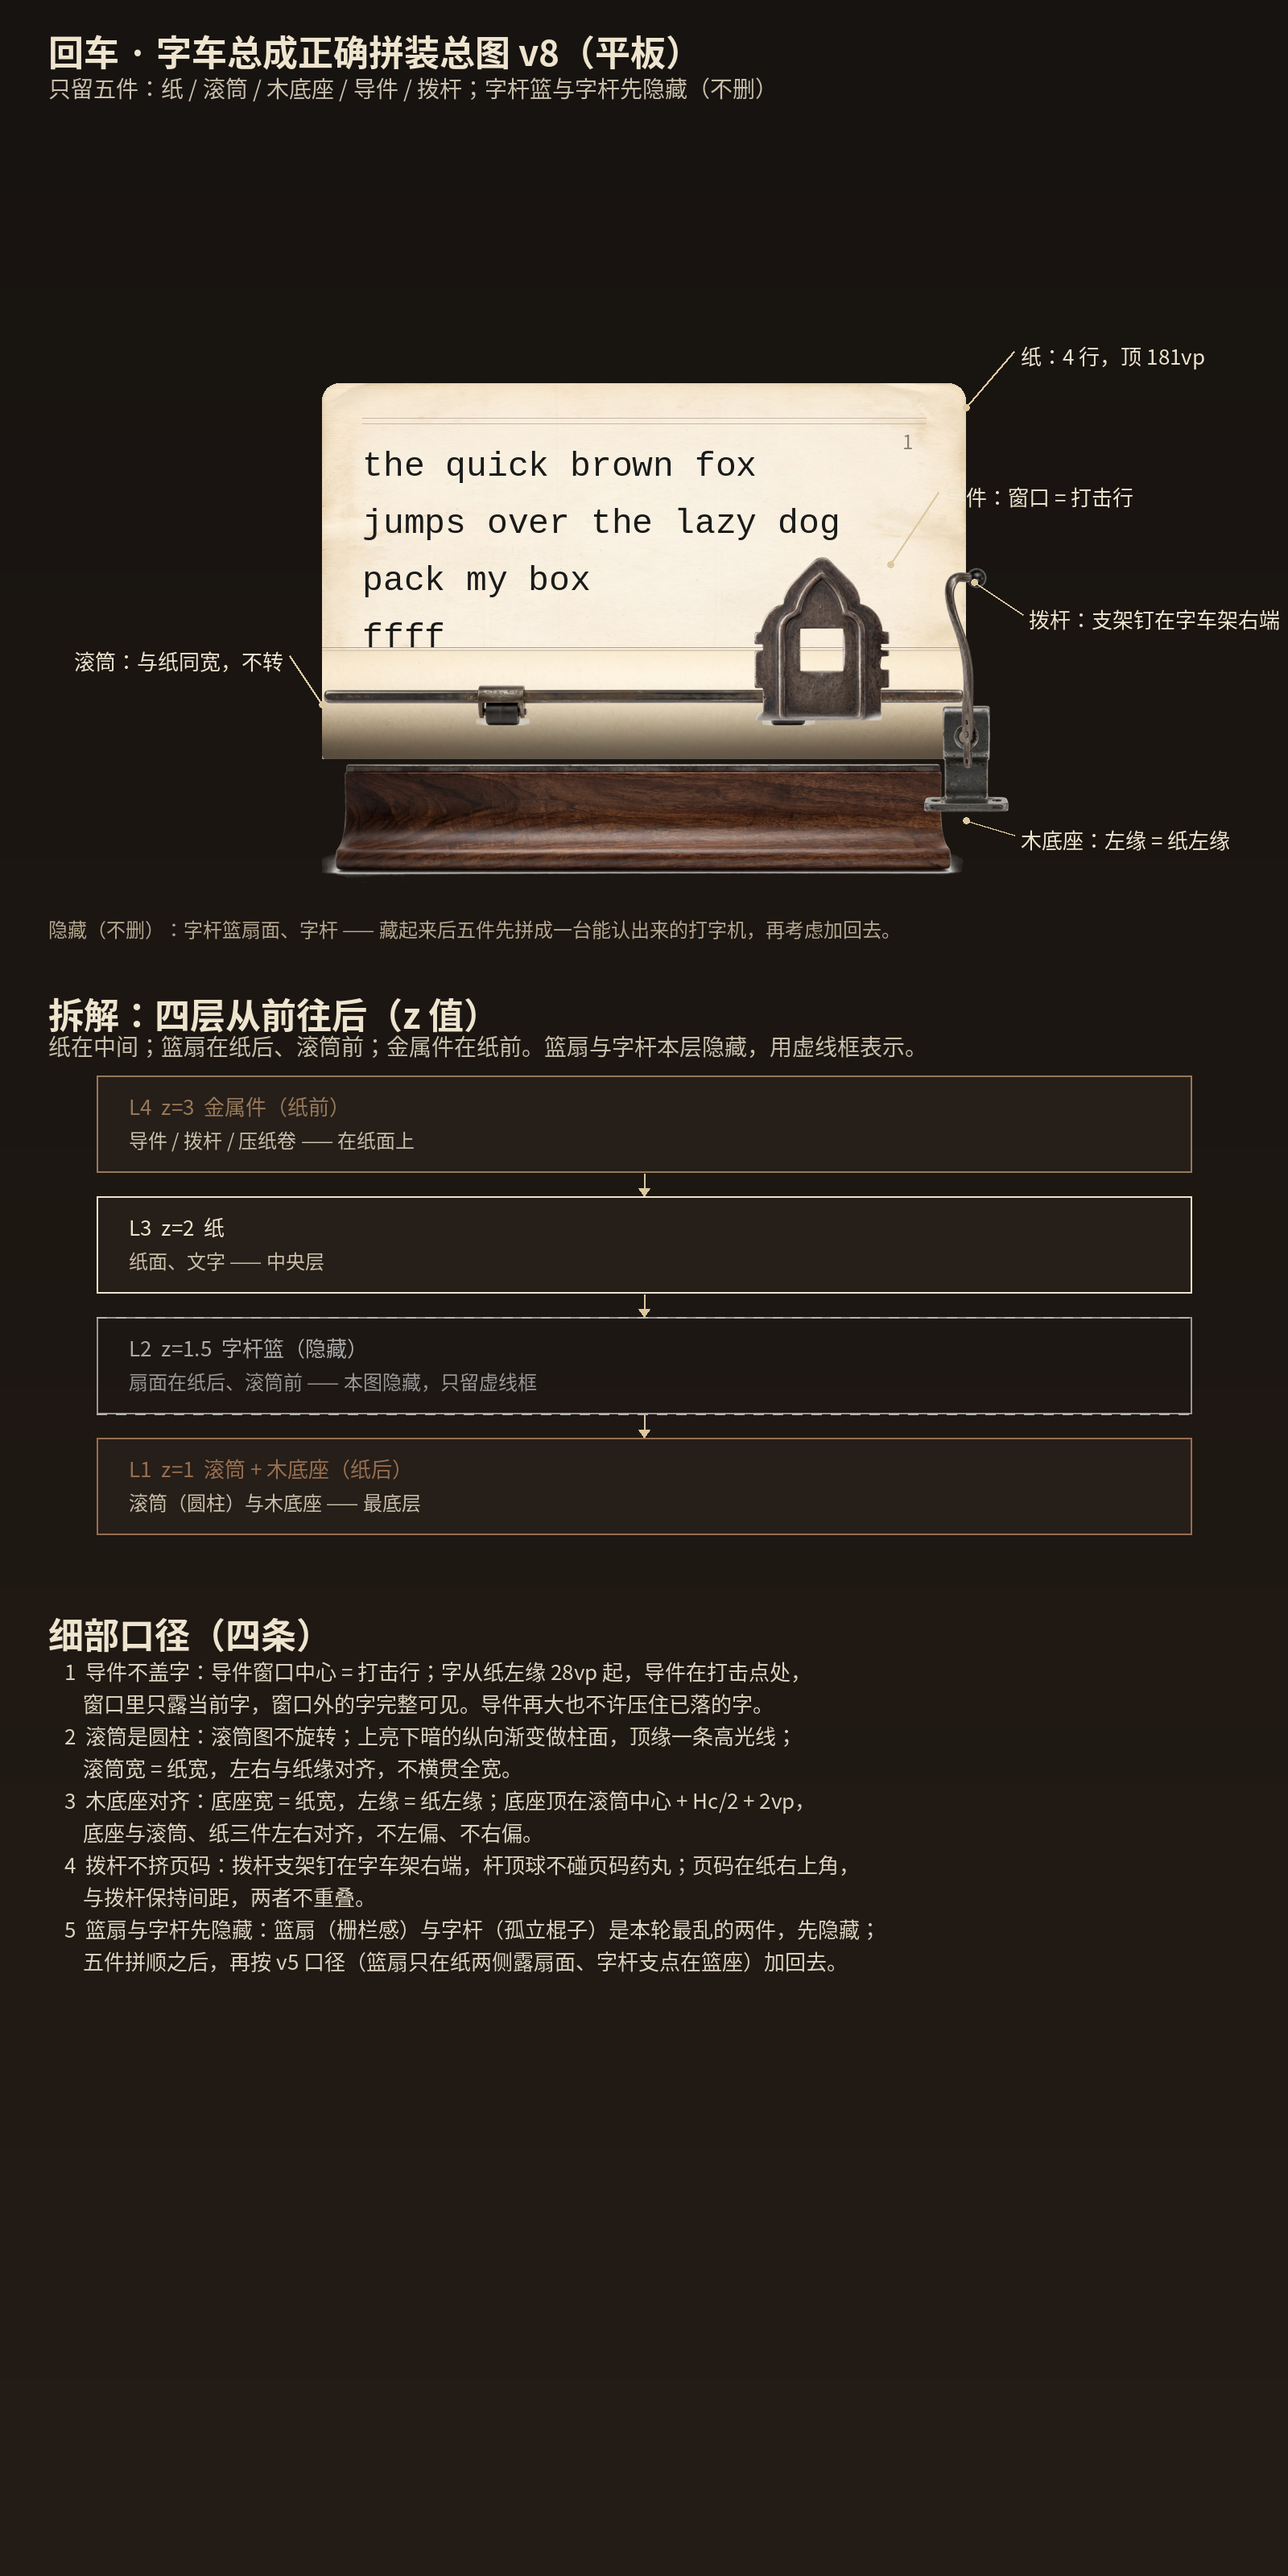
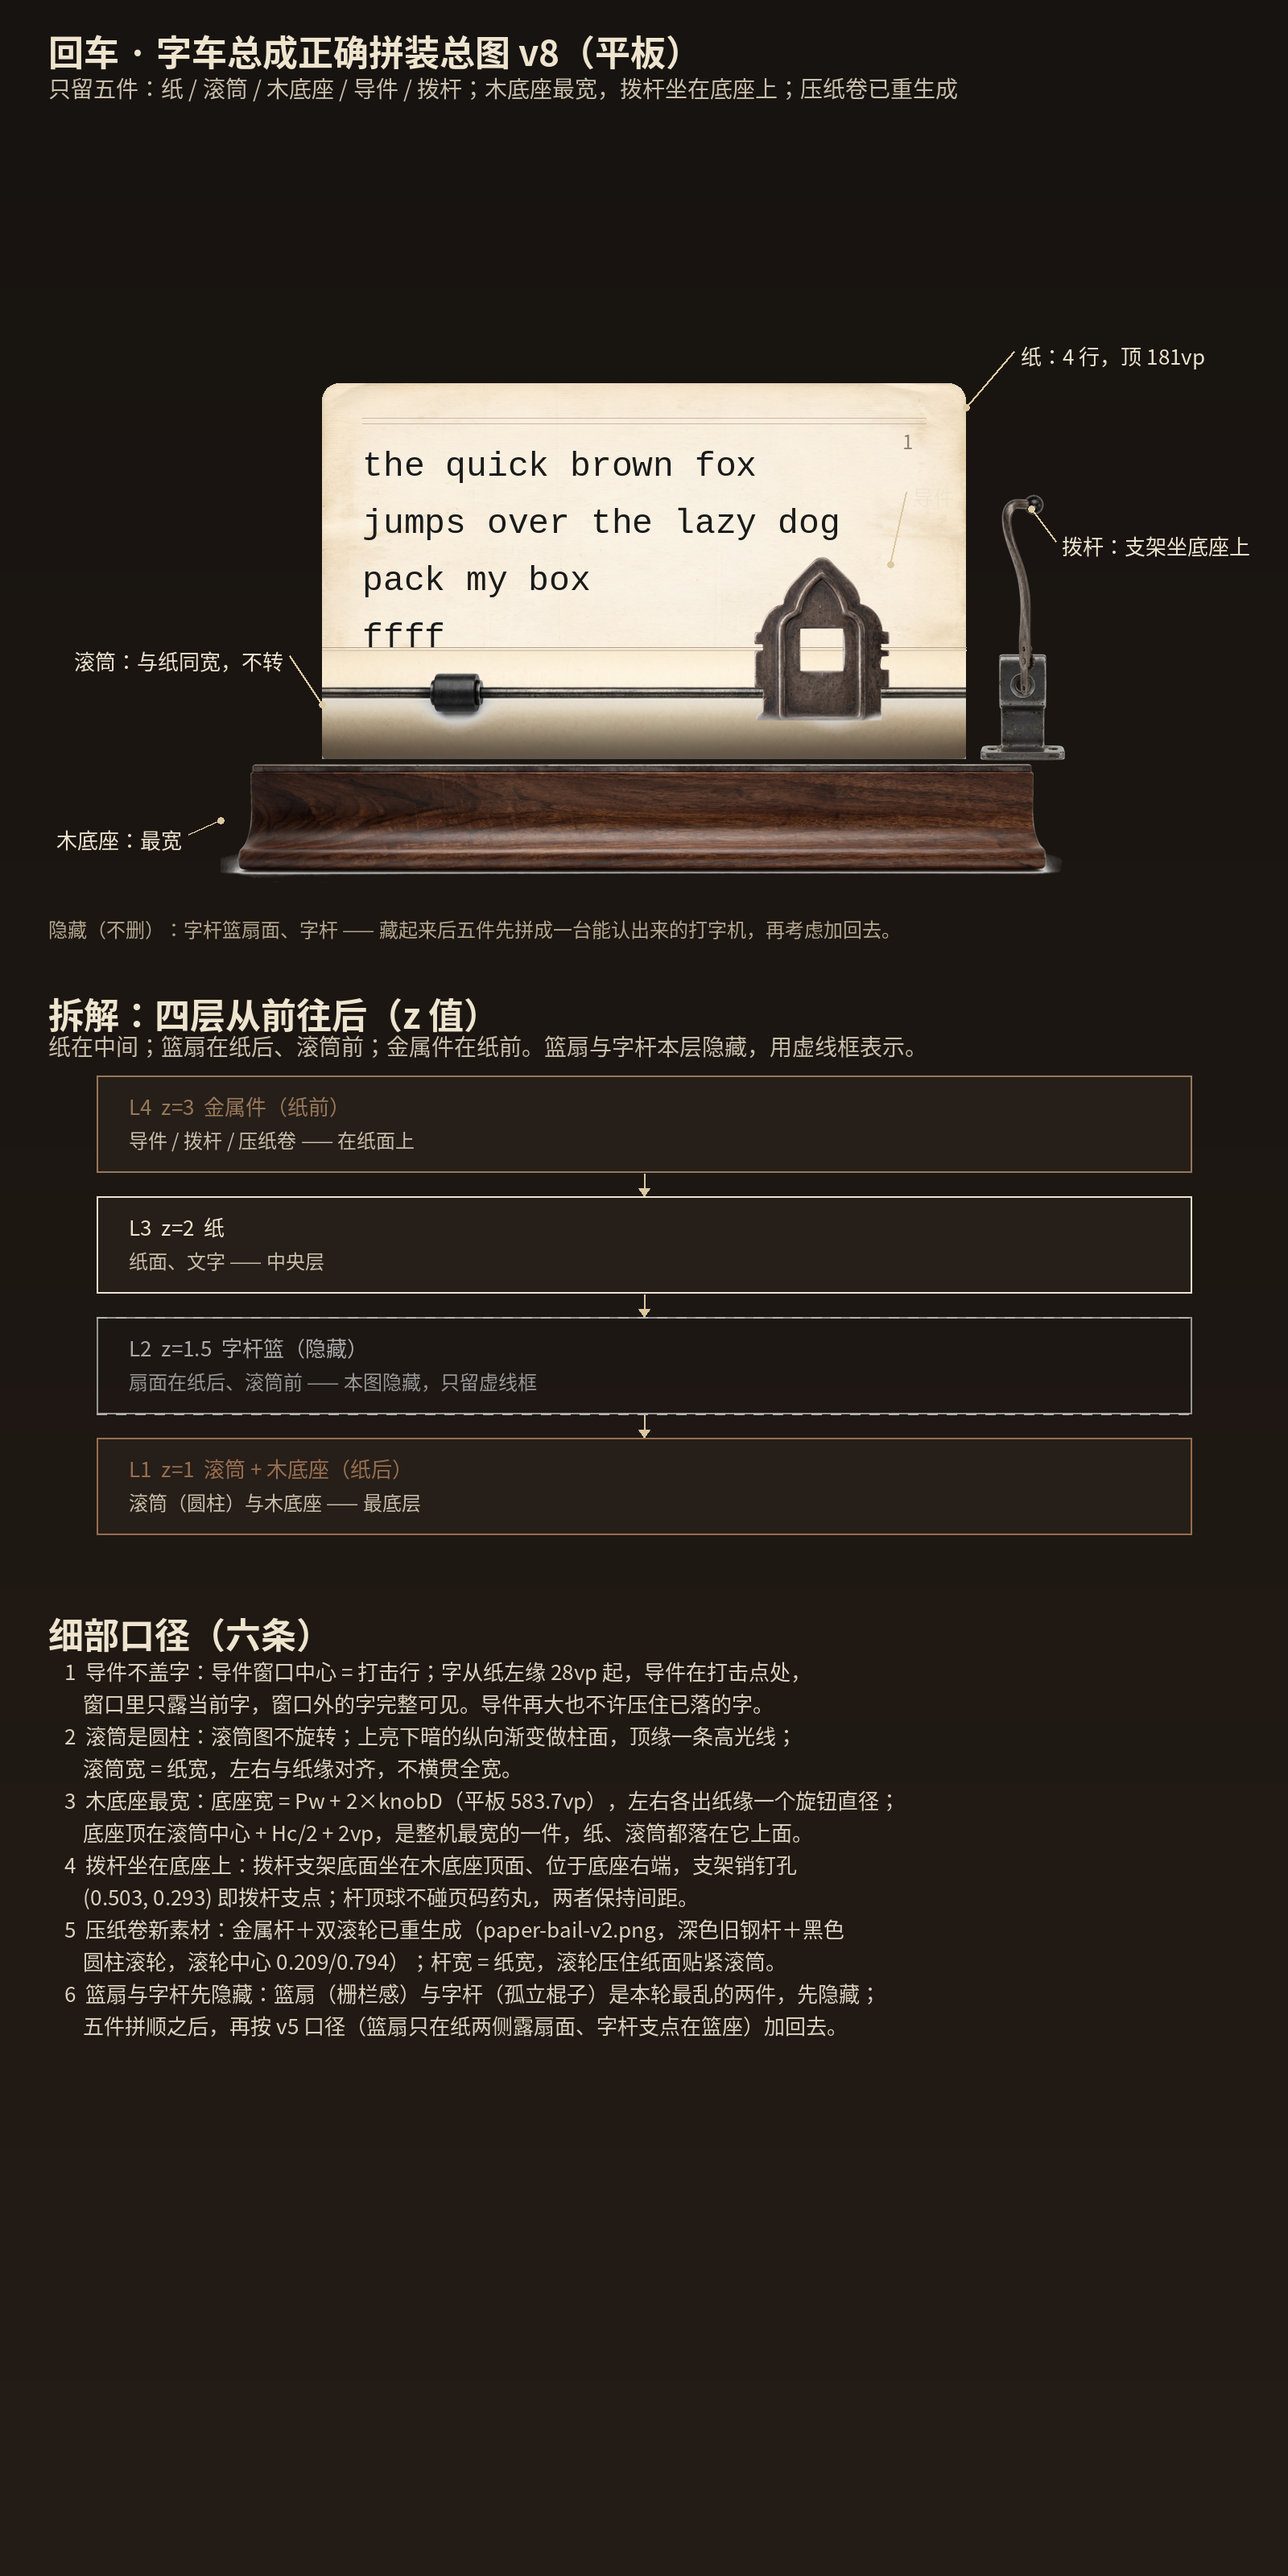
拼装总图v8修订：木底座最宽、拨杆坐底座上、压纸卷重生成（paper-bail-v2）；记入 §2.9

diff --git a/docs/界面重设计稿.md b/docs/界面重设计稿.md
@@ -295,7 +295,7 @@
   - **木底座**：横在滚筒下方，宽 Pw＋2×旋钮直径（平板 627vp）、高 83vp，深胡桃木＋顶部旧钢压条（素材 `previews/carriage-base-rail.png`，进仓后放 `layers/1920s-upright/carriage-base-rail.png`）。
   - **空格**：无杆击。空格分支走 `commitChar(' ')` 直通（不进 `queueChar`），左进一格＋小 jolt，只出一声（`playSpace()` 在 Down 处）。删除、换行同样无杆击。
   - **素材已进仓**（2026-11-06 晚）：`layers/1920s-upright/lever-pivot-bracket.png`（1105×1374，支点销钉孔 (0.503,0.293)，visual grounding 实测）、`layers/1920s-upright/typebar-basket-strip.png`（1878×400，压暗 0.6）、`layers/1920s-upright/carriage-base-rail.png`（4144×548）；三份均在 `assets/images/layers/1920s-upright/` 有 md5 一致的镜像；锚点见 `docs/素材分层锚点表.md` 新增三件。
-  - **正确拼装总图 v8（2026-11-06 18:36，用户定“先出详细的带拆解的预览图”；逐项修补越修越散，改打法：先拼顺再加件）**：总图 `docs/previews/tablet-app-v8-assembly.png`（平板口径：Pw 444.6vp、Hc 75.6vp、4 行；五件：纸/滚筒/木底座/导件/拨杆；字杆篮与字杆先隐藏不删）。拼装铁律：**五件先拼成一台能认出来的打字机，再考虑加回篮扇与字杆**；篮扇（栅栏感）与字杆（孤立棍子）是本轮最乱的两件，先隐藏。z 值四层（从前往后）：L4 z=3 金属件（纸前：导件/拨杆/压纸卷）、L3 z=2 纸、L2 z=1.5 字杆篮（隐藏，虚线框）、L1 z=1 滚筒＋木底座（纸后）。细部口径：①导件不盖字——导件窗口中心＝打击行，字从纸左缘 28vp 起，窗口里只露当前字，窗口外的字完整可见；②滚筒是圆柱——滚筒图不旋转，上亮下暗的纵向渐变做柱面，顶缘一条高光线，滚筒宽＝纸宽、左右与纸缘对齐；③木底座对齐——底座宽＝纸宽，左缘＝纸左缘，底座顶在滚筒中心＋Hc/2＋2vp；④拨杆不挤页码——拨杆支架钉在字车架右端，杆顶球不碰页码药丸。**本条修正 v7 三处**：①滚筒纹理不旋转（v7“滚筒纹理须能旋转”作废——ArkUI rotate 是屏面内 2D 转，横滚筒会风车式打转；转动只由旋钮转＋纸移动表征）；②纸底柱面渐变由 34vp/alpha 0.60 改为 12–16vp/alpha 约 0.25–0.30（短纸上不再像卷轴）；③换纸旧纸向上卷出（v7 未写方向，旧纸沉进滚筒是错的）。篮扇与字杆加回条件：五件拼顺之后，再按 v5 口径（篮扇只在纸两侧露扇面、字杆支点在篮座）加回去；篮扇不得盖纸面、不得成栅栏，字杆不得成孤立棍子。
+  - **正确拼装总图 v8（2026-11-06 18:36，用户定“先出详细的带拆解的预览图”；逐项修补越修越散，改打法：先拼顺再加件）**：总图 `docs/previews/tablet-app-v8-assembly.png`（平板口径：Pw 444.6vp、Hc 75.6vp、4 行；五件：纸/滚筒/木底座/导件/拨杆；字杆篮与字杆先隐藏不删）。拼装铁律：**五件先拼成一台能认出来的打字机，再考虑加回篮扇与字杆**；篮扇（栅栏感）与字杆（孤立棍子）是本轮最乱的两件，先隐藏。z 值四层（从前往后）：L4 z=3 金属件（纸前：导件/拨杆/压纸卷）、L3 z=2 纸、L2 z=1.5 字杆篮（隐藏，虚线框）、L1 z=1 滚筒＋木底座（纸后）。细部口径：①导件不盖字——导件窗口中心＝打击行，字从纸左缘 28vp 起，窗口里只露当前字，窗口外的字完整可见；②滚筒是圆柱——滚筒图不旋转，上亮下暗的纵向渐变做柱面，顶缘一条高光线，滚筒宽＝纸宽、左右与纸缘对齐；③木底座最宽——底座宽＝Pw＋2×knobD（平板 583.7vp），左右各出纸缘一个旋钮直径，是整机最宽的一件，纸、滚筒都落在它上面（2026-11-06 18:40 用户定，取代 v8 初版“底座宽＝纸宽”）；④拨杆坐在底座上——拨杆支架底面坐在木底座顶面、位于底座右端，支架销钉孔 (0.503,0.293) 即拨杆支点，杆顶球不碰页码药丸（同为 18:40 用户定，支架不再悬空）；⑤压纸卷新素材——金属杆＋双滚轮已重生成（`paper-bail-v2.png`，2736×283、深色旧钢杆＋黑色圆柱滚轮，滚轮中心 0.209/0.794；2026-11-06 18:40 用户定重生成，纸卷真实感很重要），杆宽＝纸宽，滚轮压住纸面贴紧滚筒。**本条修正 v7 三处**：①滚筒纹理不旋转（v7“滚筒纹理须能旋转”作废——ArkUI rotate 是屏面内 2D 转，横滚筒会风车式打转；转动只由旋钮转＋纸移动表征）；②纸底柱面渐变由 34vp/alpha 0.60 改为 12–16vp/alpha 约 0.25–0.30（短纸上不再像卷轴）；③换纸旧纸向上卷出（v7 未写方向，旧纸沉进滚筒是错的）。篮扇与字杆加回条件：五件拼顺之后，再按 v5 口径（篮扇只在纸两侧露扇面、字杆支点在篮座）加回去；篮扇不得盖纸面、不得成栅栏，字杆不得成孤立棍子。
 
 ## 3. 收藏页：机器图鉴（一屏只讲一台机器，不许九宫格堆照片）
 
